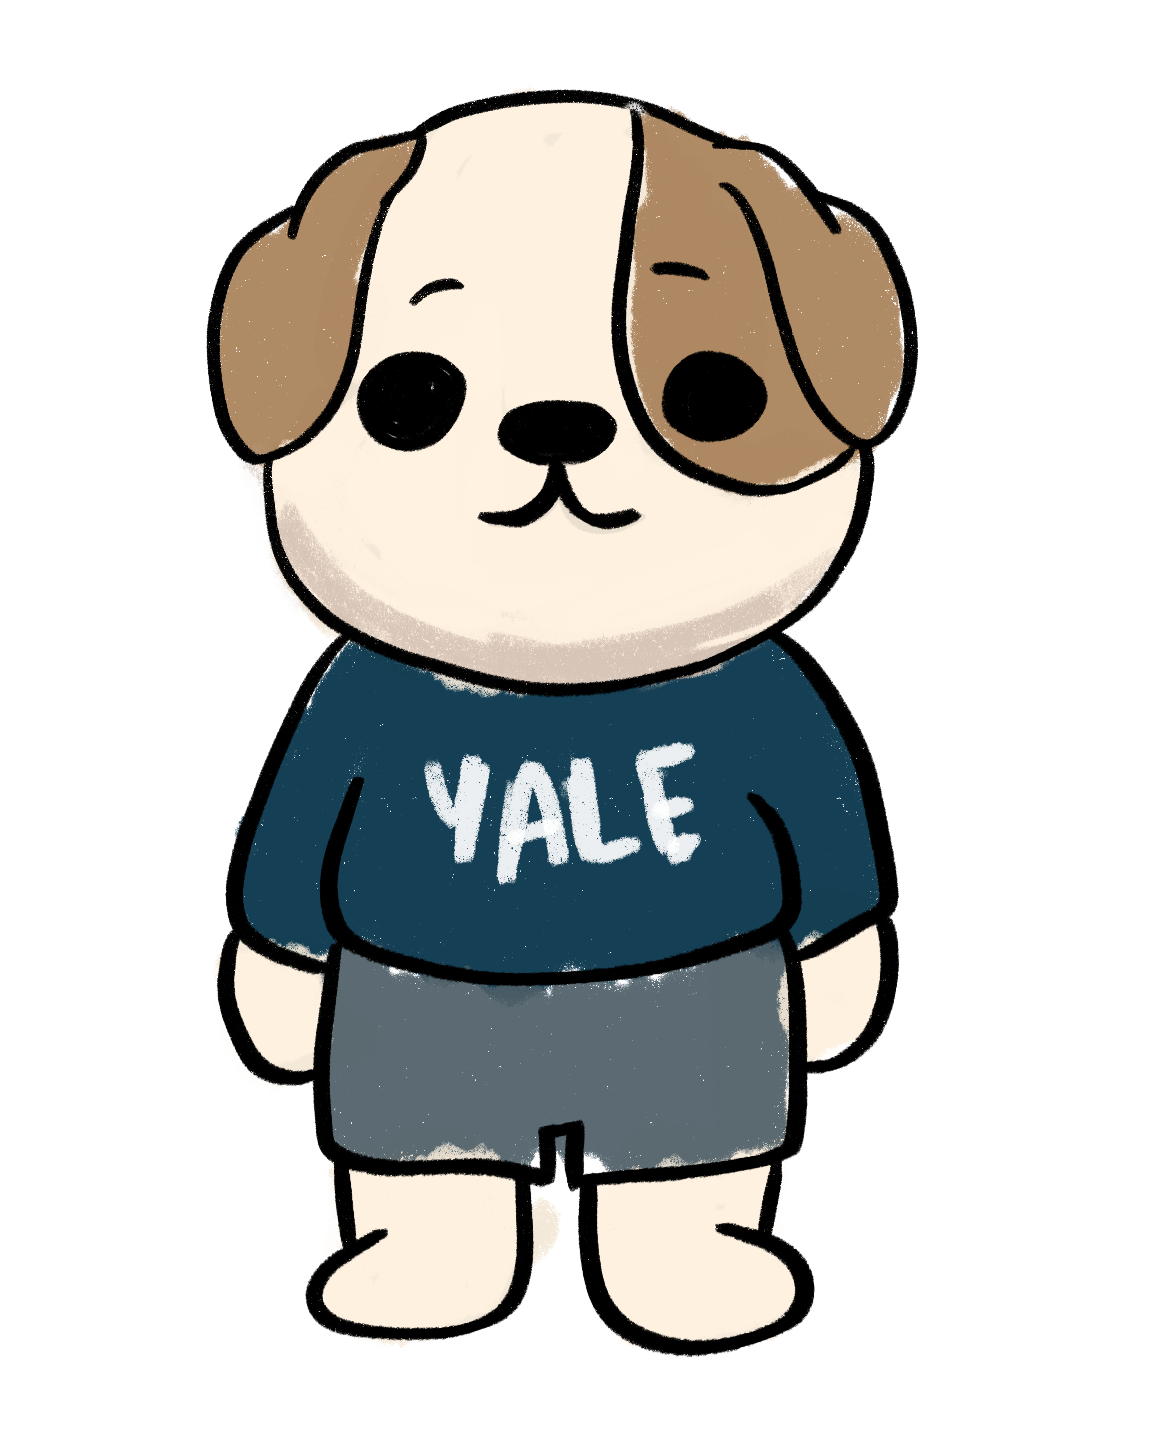
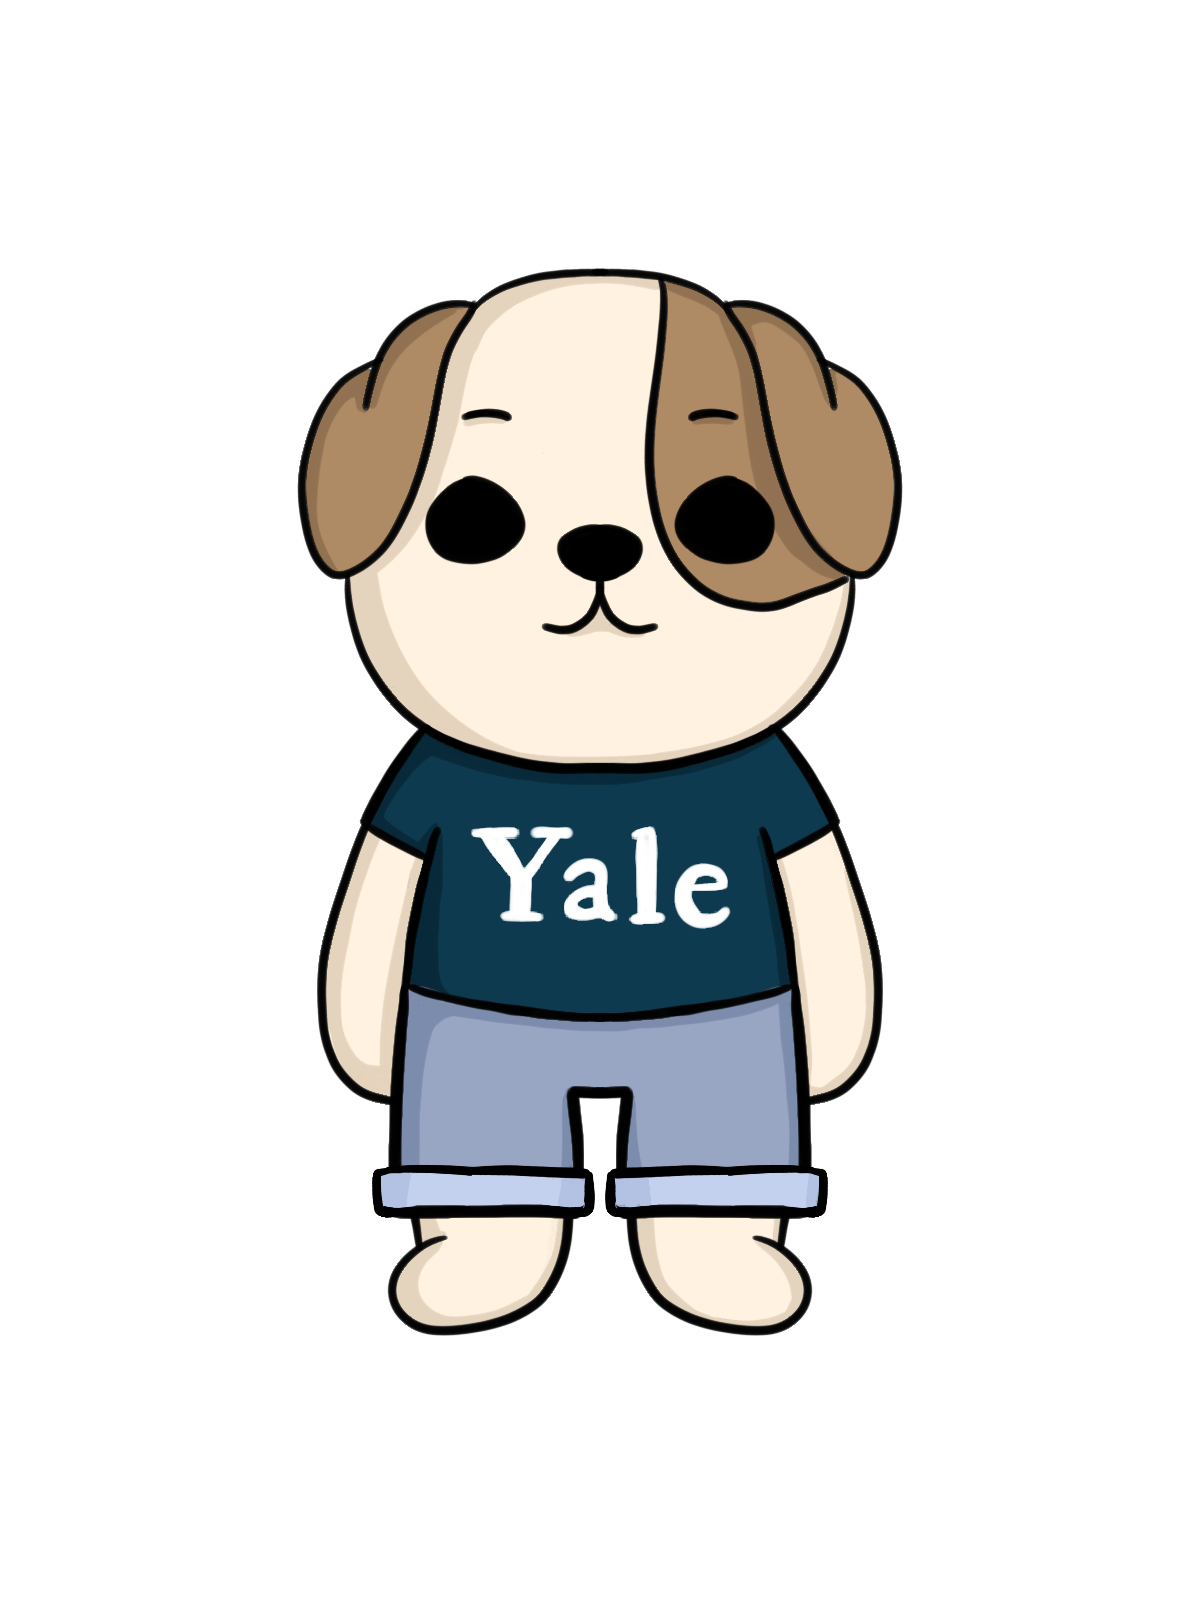
fix login spacing, replaced bulldog

diff --git a/client/src/screens/login.js b/client/src/screens/login.js
@@ -154,20 +154,17 @@ const styles = StyleSheet.create({
     paddingTop: 100,
   },
   lowerContainer: {
-    paddingTop: 30,
+    paddingTop: 50,
     borderTopLeftRadius: 20,
     borderTopRightRadius: 20,
-    paddingBottom: 100,
+    paddingBottom: 200,
     backgroundColor: "white",
     width: "100%",
   },
-  buttonContainer: {
-    marginTop: 30,
-  },
   bulldog: {
-    margin: 30,
-    width: 200,
-    height: 300,
+    marginTop: 70,
+    width: 350,
+    height: 466,
   },
   GloginButton: {
     ...Buttons.loginButton,
